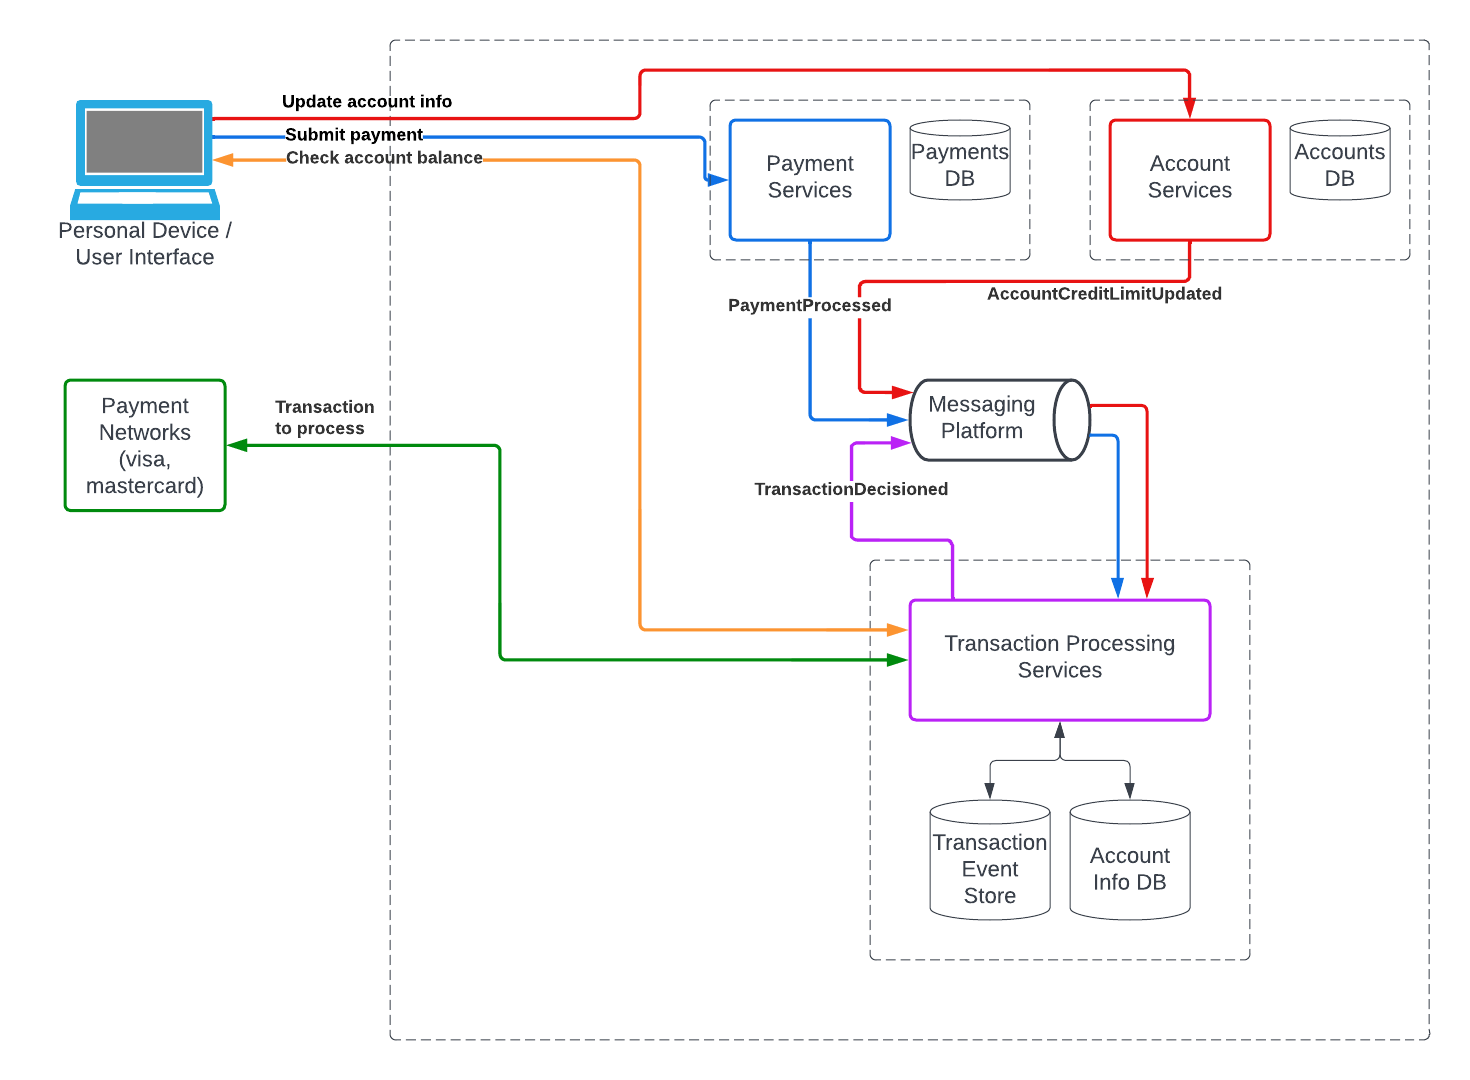
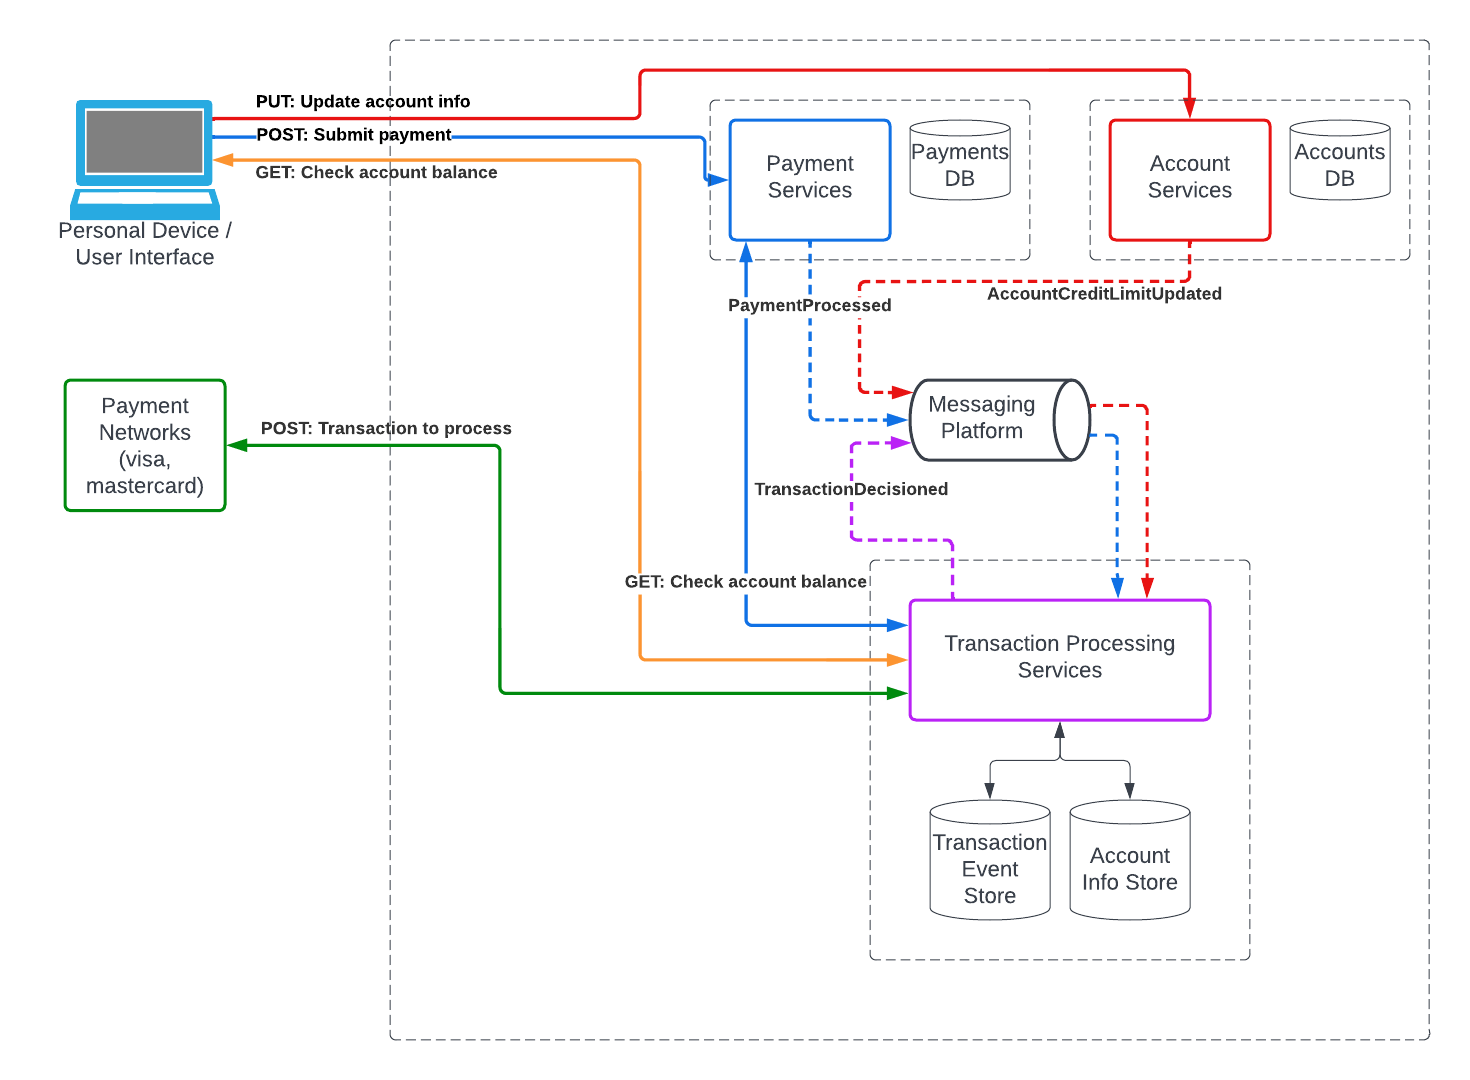
Payment limit (#13)
* implemented payment validation

* updated diagram

diff --git a/webapp/app/views/makePayment.scala.html b/webapp/app/views/makePayment.scala.html
@@ -2,6 +2,7 @@
 
 @main("Enrons Online Banking - make payment") {
   <h1>Make Payment</h1>
+  <p>Note: Max payment amount cannot exceed current balance.<p>
   @if(submitResponse.isDefined) {
     @submitResponse.get match {
       case Right(paymentId) => {
